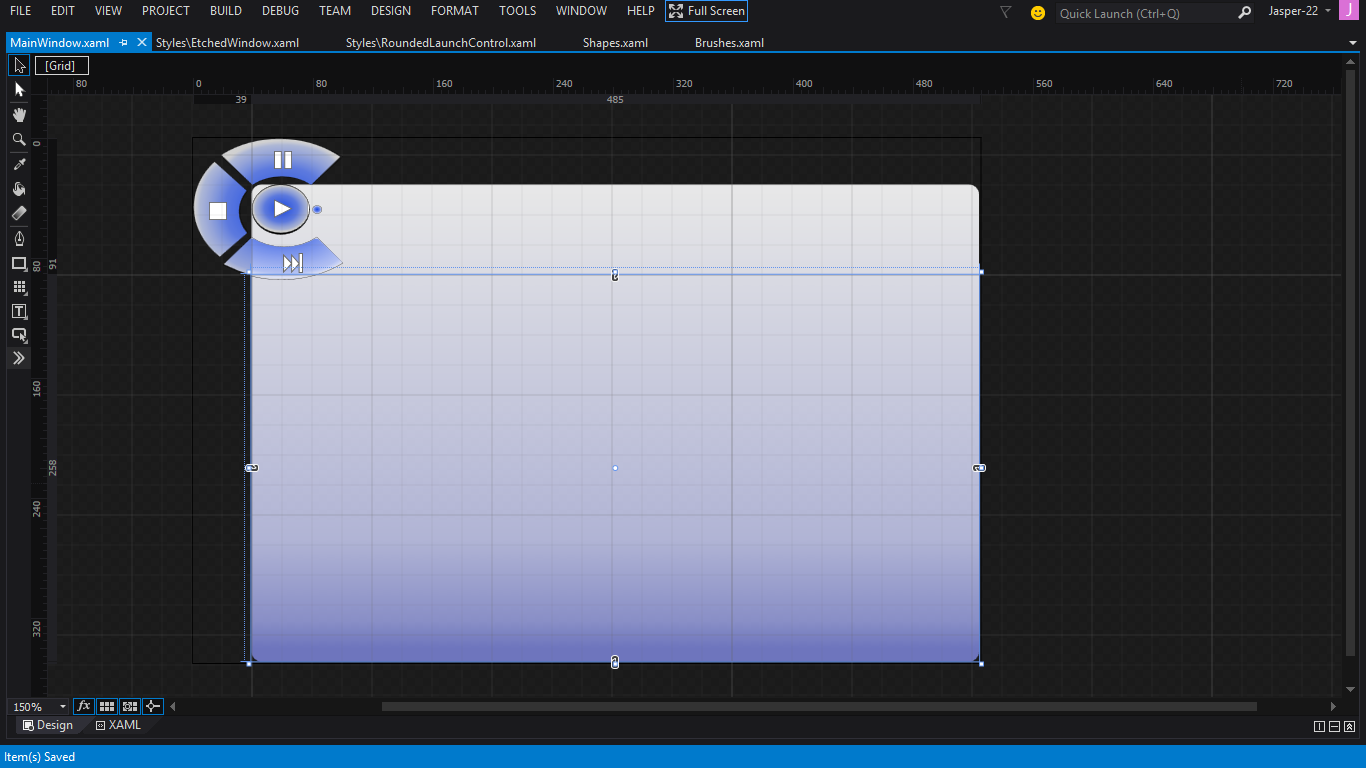
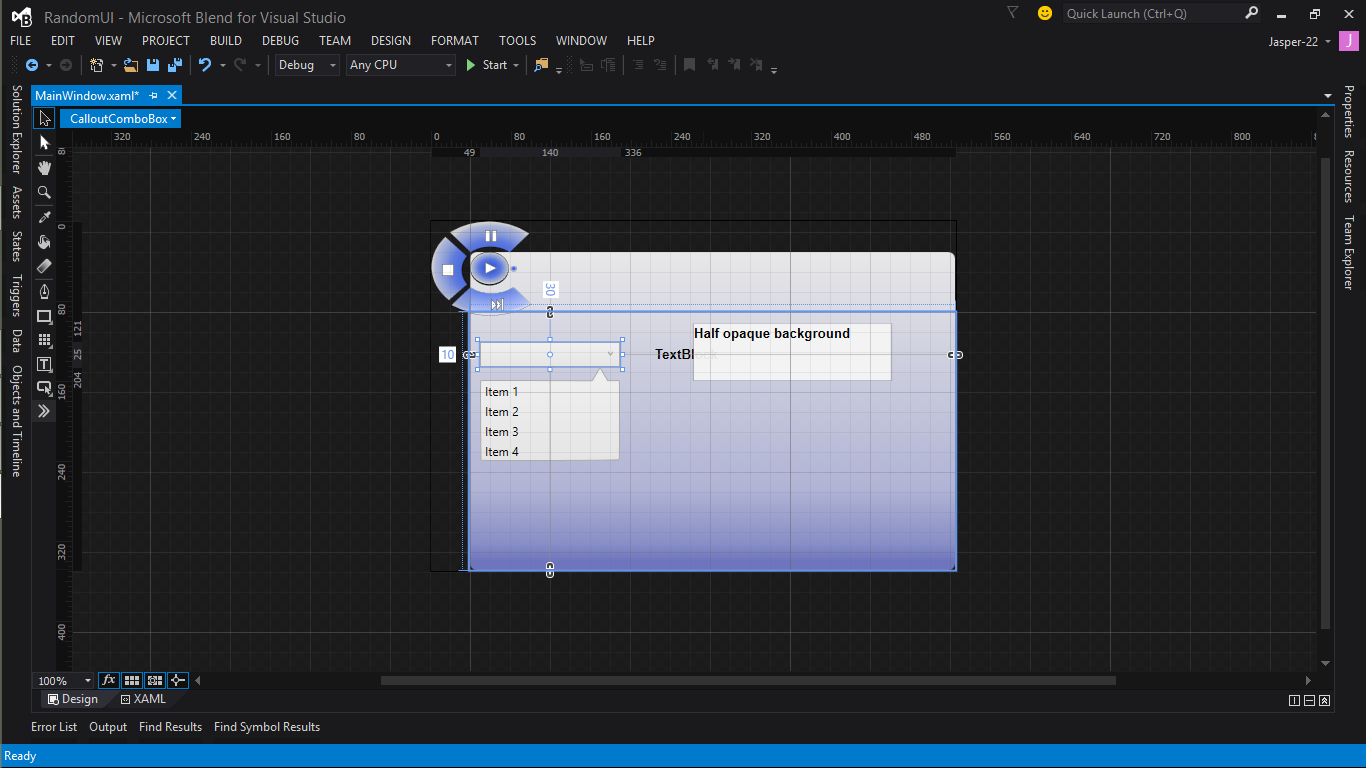
Updated screehshot

diff --git a/MainWindow.xaml b/MainWindow.xaml
@@ -24,9 +24,9 @@
             <ComboBoxItem Content="Item 3" />
             <ComboBoxItem Content="Item 4" />
         </Controls:CalloutComboBox>
-        <TextBlock Height="20" Margin="195,30,225,0" TextWrapping="Wrap" Text="TextBlock" VerticalAlignment="Top" FontFamily="Arial" FontSize="13.333" FontWeight="Bold"/>
-        <Grid Height="45" Margin="220,10,135,0" VerticalAlignment="Top" Background="{DynamicResource GreyHalfTransperantBrush}">
-            <TextBlock Text="Another text block" TextWrapping="Wrap" FontFamily="Arial" FontSize="13.333" FontWeight="Bold" Margin="4,4,0,0" />
+        <TextBlock Height="20" Margin="185,35,235,0" TextWrapping="Wrap" Text="TextBlock" VerticalAlignment="Top" FontFamily="Arial" FontSize="13.333" FontWeight="Bold"/>
+        <Grid Height="60" Margin="220,10,60,0" VerticalAlignment="Top" Background="{DynamicResource GreyHalfTransperantBrush}">
+            <TextBlock Text="Half opaque background" TextWrapping="Wrap" FontFamily="Arial" FontSize="13.333" FontWeight="Bold" Margin="4,4,0,0" />
         </Grid>
 
     </Grid>
